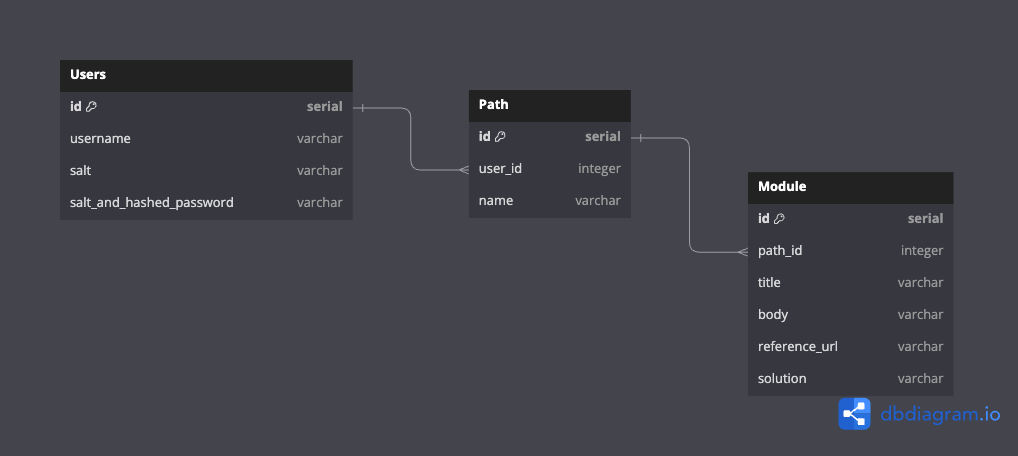
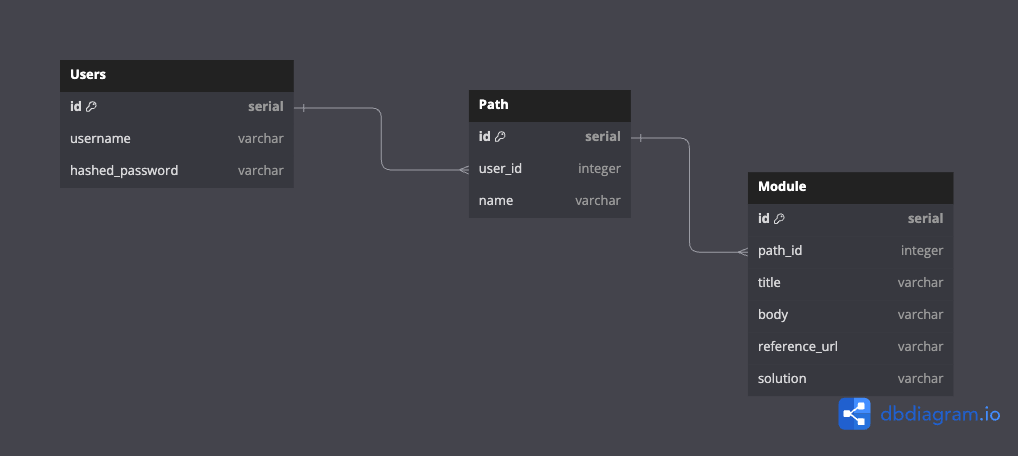
feat: create user table

diff --git a/migrations/20241023005813_create_user_table.js b/migrations/20241023005813_create_user_table.js
@@ -1,9 +1,14 @@
+const TABLE = "users";
 /**
  * @param { import("knex").Knex } knex
  * @returns { Promise<void> }
  */
 exports.up = function (knex) {
-  console.timeLog(process.env);
+  return knex.schema.createTable(TABLE, function (table) {
+    table.increments("id");
+    table.string("username").unique().notNullable();
+    table.string("hashed_password").notNullable();
+  });
 };
 
 /**
